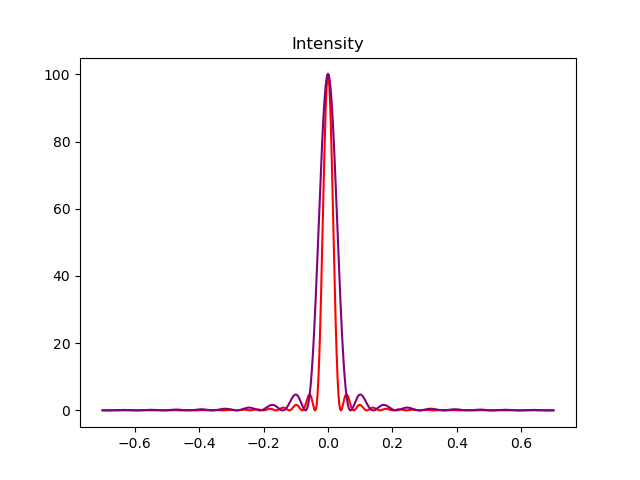
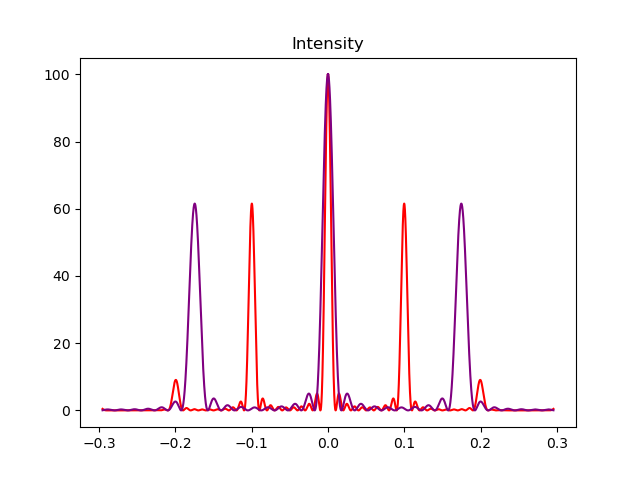
changed mistakes + added new picture

diff --git a/difraction_grid/evdokimova_diff_grid.cpp b/difraction_grid/evdokimova_diff_grid.cpp
@@ -15,32 +15,37 @@ std::vector<double> generatePoints(double start, double end,
   return pointsArray;
 }
 
-double countSinc(double x) { return std::sin(x) / x; }
+double countSinc(double xPoints) {
+  return std::sin(xPoints) / xPoints;
+}
 
 double countLeftMult(double lengthOfWave, double thetta, double a) {
   return countSinc(M_PI * a / lengthOfWave * std::sin(thetta));
 }
 
 double countRightMult(double lengthOfWave, double thetta, double d,
-                      int N) {
-  double numerator =
-      std::sin(N * M_PI * d / lengthOfWave * std::sin(thetta));
-  double denominator =
-      std::sin(M_PI * d / lengthOfWave * std::sin(thetta));
+                      const int N) {
+  double commonCoefficient =
+      M_PI * d * std::sin(thetta) / lengthOfWave;
+
+  double numerator = std::sin(N * commonCoefficient);
+  double denominator = std::sin(commonCoefficient);
 
   return numerator / denominator;
 }
 
-double countIntensity(int nGaps, double lengthOfWave, double thetta,
-                      double a, double d, double I_0) {
+double countIntensity(const int nGaps, double lengthOfWave,
+                      double thetta, double a, double d, double I_0) {
 
-  double leftMult = countLeftMult(lengthOfWave, thetta, d); //левый множитель в формуле
-  double squareLeftMult = leftMult * leftMult;
+  double leftPart = countLeftMult(lengthOfWave, thetta,
+                                  a); // левый множитель в формуле
+  double squareLeft = leftPart * leftPart;
 
-  double rightMult = countRightMult(lengthOfWave, thetta, d, nGaps); //правый множитель в формуле
-  double squareRightMult = rightMult * rightMult;
+  double rightPart = countRightMult(
+      lengthOfWave, thetta, d, nGaps); // правый множитель в формуле
+  double squareRight = rightPart * rightPart;
 
-  return I_0 * squareLeftMult * squareRightMult;
+  return I_0 * squareLeft * squareRight;
 }
 
 void drawIntensity() {
@@ -51,40 +56,40 @@ void drawIntensity() {
   double lengthRedLight = 400;
   double lengthPurpleLight = 700;
 
-  int m = 1; // порядок максимума 
+  int m = 3; // порядок максимума
 
-  double a = 0.001;
-  int d = 1000;
+  const int a = 1500;
+  const int d = 4000;
 
-  double thetta = m * lengthPurpleLight / d;
+  double thetta = (m * lengthRedLight / d);
   // std::cout << "thetta = " << thetta << std::endl;
 
   int amountOfPoints = 50000;
   // координаты по Ox на графике
   // строим массив точек, от которых будем считать
-  std::vector<double> xPoints = generatePoints( 
-      -thetta, thetta,
-      amountOfPoints); 
 
-  // for (int i = 0; i < 10; i++) {
-  //   std::cout << x.at(i)
-  //             << " "; // посмотреть координаты (ну у первых 10 хотя б)
-  // }
-  // std::cout << std::endl;
+  std::vector<double> xPoints =
+      generatePoints(-thetta, thetta, amountOfPoints);
 
-  std::vector<double> redLight, purpleLight; //координаты по Oy на графике
+  std::vector<double> redLight;
+  std::vector<double> purpleLight;
 
-  for (double xCoord: xPoints) {
+  for (double xCoord : xPoints) {
     redLight.push_back(
         countIntensity(nGaps, lengthRedLight, xCoord, a, d, I_0));
     purpleLight.push_back(
         countIntensity(nGaps, lengthPurpleLight, xCoord, a, d, I_0));
   }
 
+  std::vector<double> xSinArray;
+  for (double xCoord : xPoints) {
+    xSinArray.push_back(std::sin(xCoord));
+  }
+
   plt::title("Intensity");
-  plt::plot(xPoints, redLight, "red");
-  plt::plot(xPoints, purpleLight, "purple");
- 
+
+  plt::plot(xSinArray, redLight, "red");
+  plt::plot(xSinArray, purpleLight, "purple");
   plt::show();
 }
 
